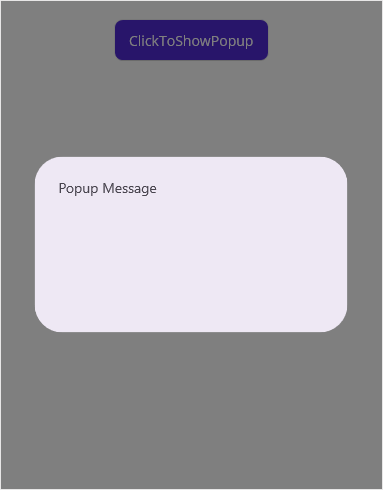
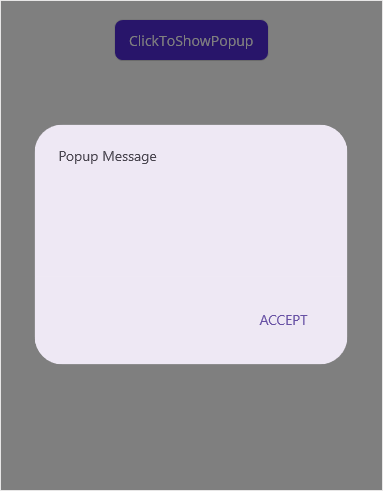
Modified Images/layout-customizations/maui-popup-without-header.png

Changed region(s): [[0.0862, 0.6429, 0.9191, 0.7653], [0.0862, 0.2449, 0.9191, 0.3673], [0.1436, 0.3673, 0.4021, 0.398]]

diff --git a/MAUI/Popup/layout-customizations.md b/MAUI/Popup/layout-customizations.md
@@ -127,7 +127,7 @@ You can display the Popup without header by using the property `SfPopup.ShowHead
             <Button x:Name="clickToShowPopup" Text="ClickToShowPopup" 
                     VerticalOptions="Start" HorizontalOptions="Center" 
                     Clicked="ClickToShowPopup_Clicked" />
-            <sfPopup:SfPopup x:Name="sfPopup" ShowHeader="False">
+            <sfPopup:SfPopup x:Name="sfPopup" ShowHeader="False" ShowFooter="True">
             </sfPopup:SfPopup>
         </StackLayout>
     </ContentPage.Content>
@@ -142,6 +142,7 @@ public partial class MainPage : ContentPage
     {
         InitializeComponent();
         sfPopup.ShowHeader = false;
+        sfPopup.ShowFooter = true;
     }
 
     private void ClickToShowPopup_Clicked(object sender, EventArgs e)
@@ -291,8 +292,8 @@ public partial class MainPage : ContentPage
         });
         
         // Adding HeaderTemplate of the SfPopup
-        sfPopup.HeaderTemplate = headerTemplateView;       
-	}
+        sfPopup.HeaderTemplate = headerTemplateView;
+    }
 
     private void ClickToShowPopup_Clicked(object sender, EventArgs e)
     {
@@ -360,8 +361,8 @@ public partial class MainPage : ContentPage
         });
 
         // Adding FooterTemplate of the SfPopup
-        sfPopup.FooterTemplate = footerTemplateView;       
-	}
+        sfPopup.FooterTemplate = footerTemplateView;
+    }
 
     private void ClickToShowPopup_Clicked(object sender, EventArgs e)
     {
@@ -424,8 +425,8 @@ public partial class MainPage : ContentPage
         });
 
        // Adding ContentTemplate of the SfPopup
-        sfPopup.ContentTemplate = contentTemplateView;       
-	}
+        sfPopup.ContentTemplate = contentTemplateView;
+    }
 
     private void ClickToShowPopup_Clicked(object sender, EventArgs e)
     {
